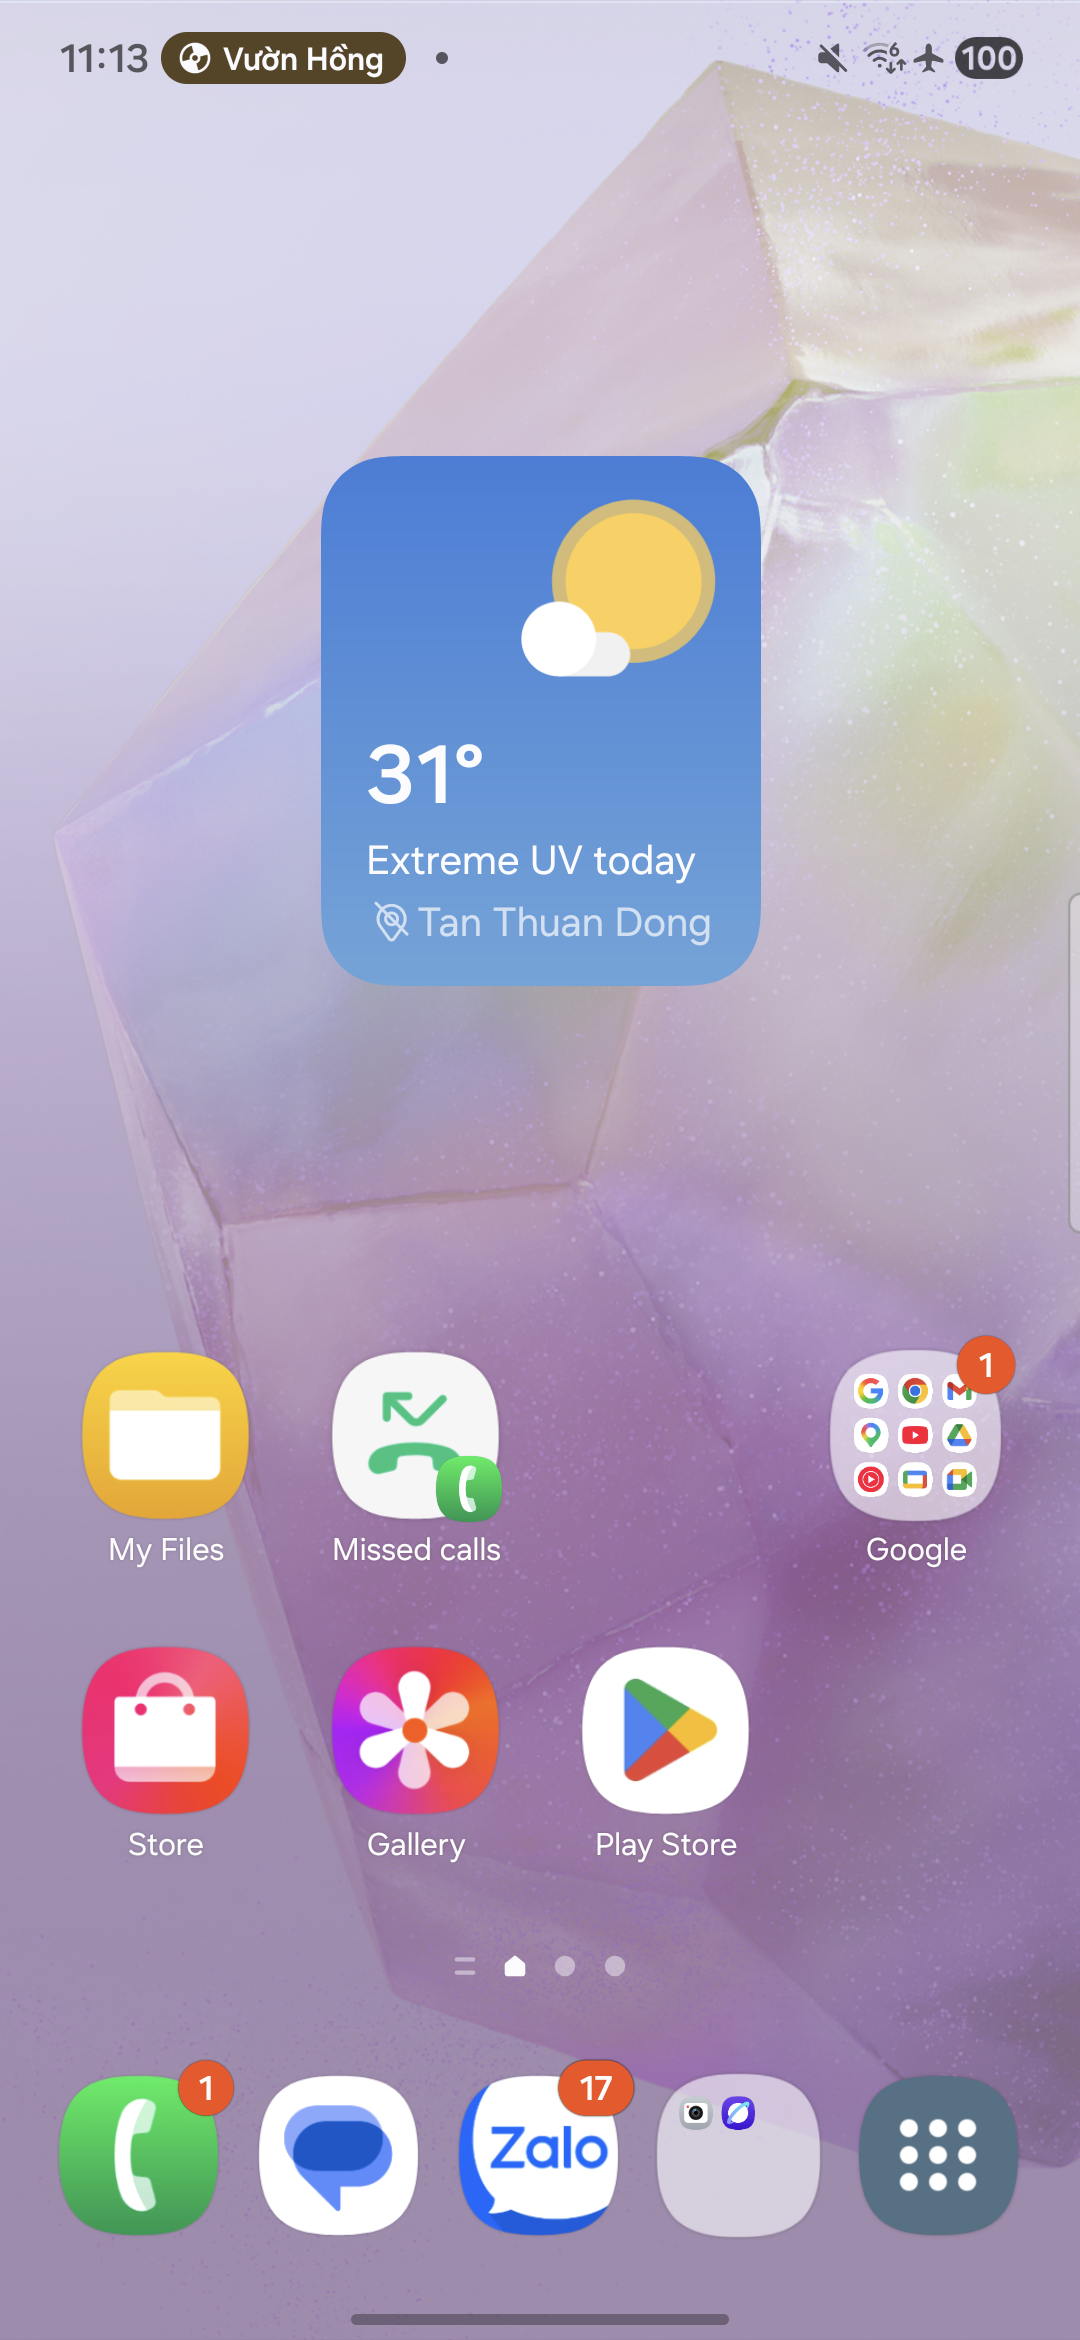
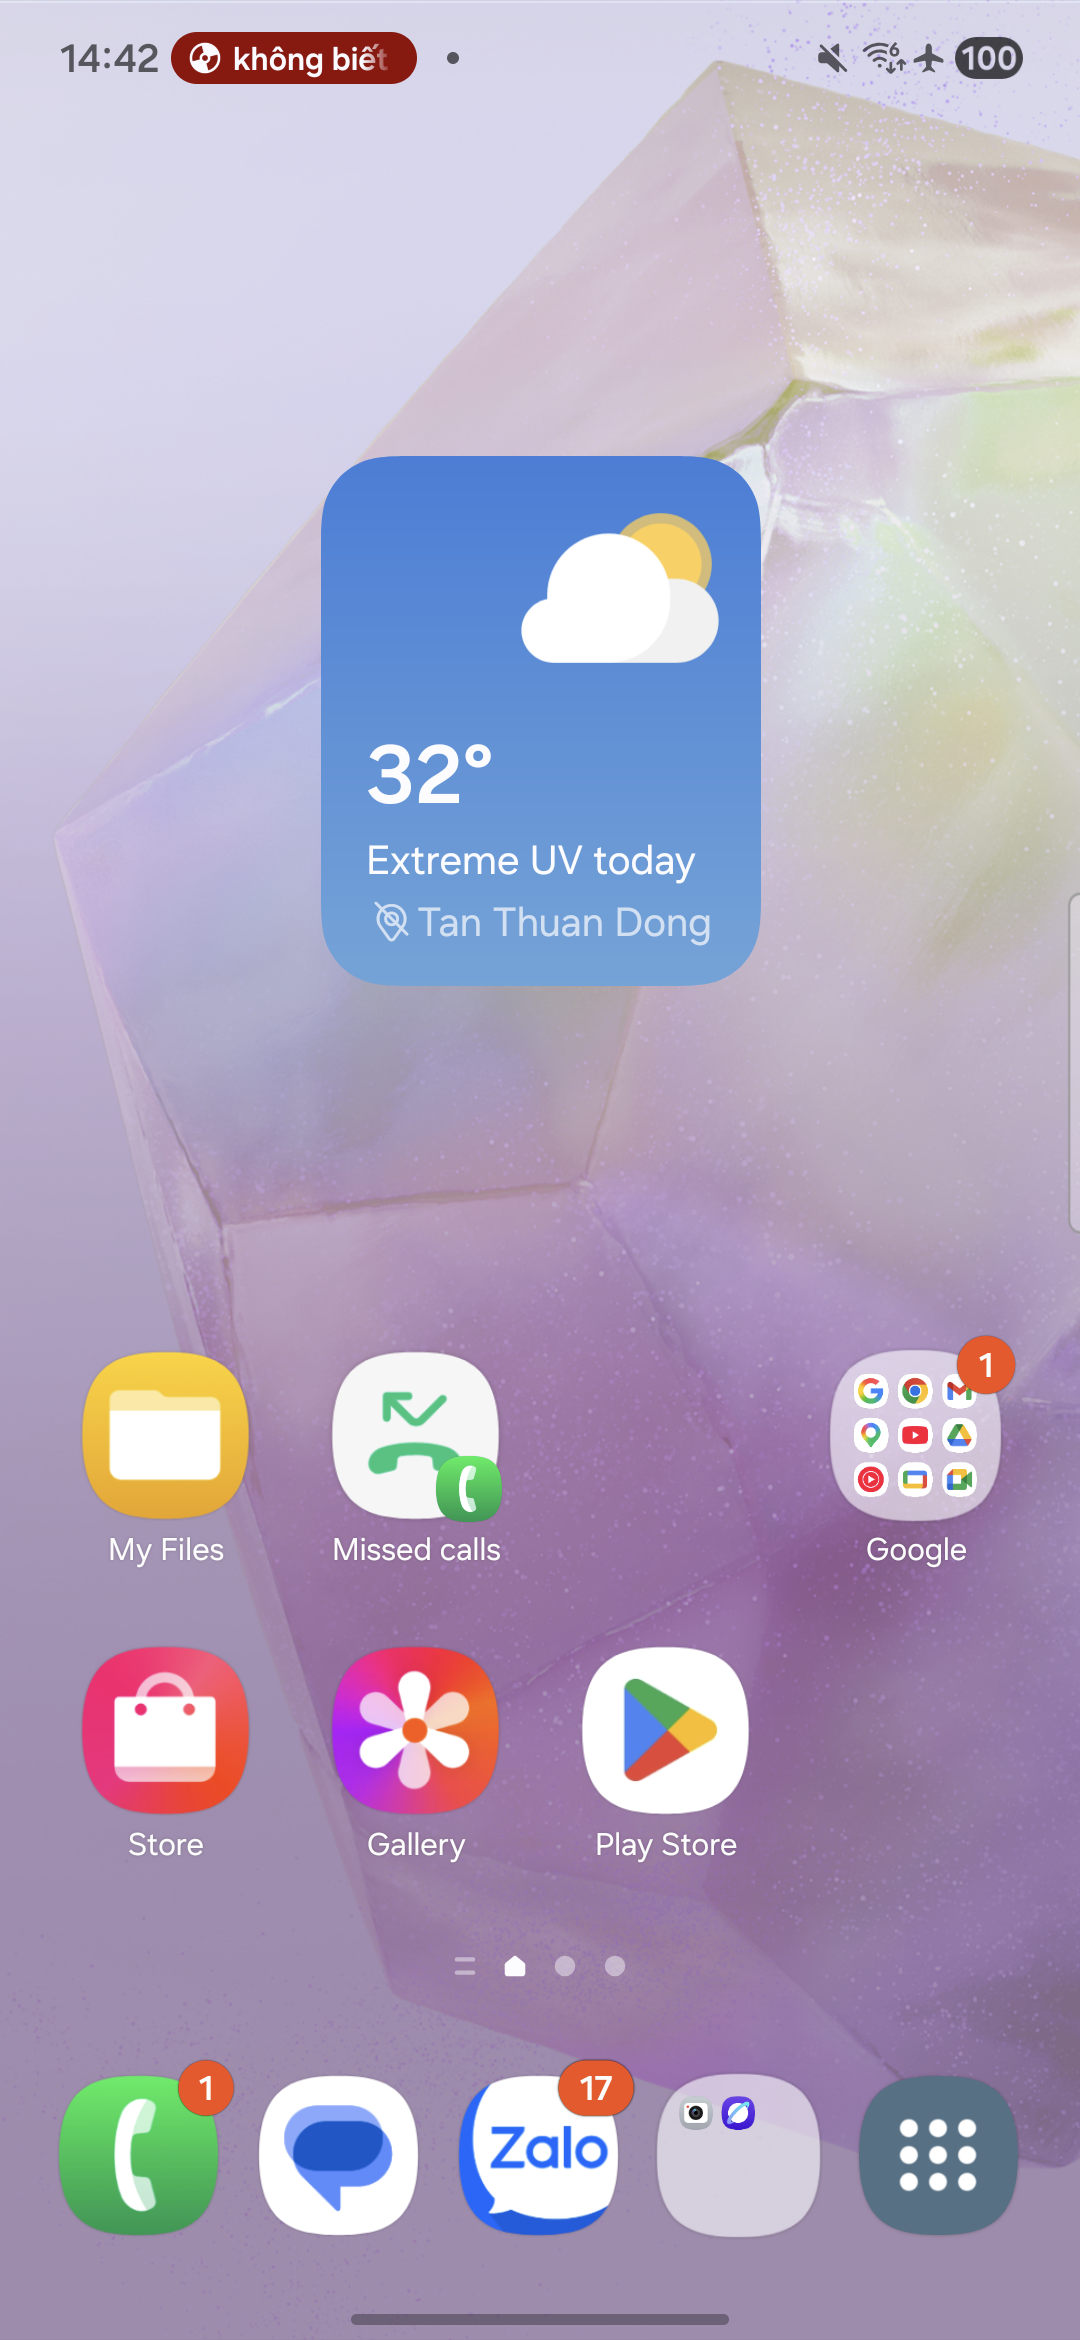
Add: test_home_quickplay_1st_item

Changed region(s): [[0.0611, 0.0, 0.3972, 0.0624], [0.4889, 0.1872, 0.6722, 0.312], [0.3667, 0.312, 0.4583, 0.3432]]

diff --git a/locators/android_locators.py b/locators/android_locators.py
@@ -27,9 +27,8 @@ class AndroidHomeLocators:
 
     # ── Bài hát đầu tiên trong section "Phát nhanh" ──────────────────────────
     QUICK_PLAY_FIRST_ITEM = (AppiumBy.XPATH,
-        "(//android.widget.TextView[@text='Phát nhanh']"
-        "/parent::*/parent::*/following-sibling::*"
-        "//android.widget.ImageView)[1]")
+        "(//android.widget.TextView[@resource-id='com.zing.mp3:id/text' and @text='Phát nhanh']"
+        "/../following-sibling::android.widget.RelativeLayout[@clickable='true'])[1]")
 
     # ── Mini player ───────────────────────────────────────────────────────────
     MINI_PLAYER         = (AppiumBy.ID, "com.zing.mp3:id/playbarContainer")
@@ -72,19 +71,20 @@ class AndroidHomeLocators:
         "(//android.widget.TextView[@resource-id='com.zing.mp3:id/tvTitle' and contains(@text,'Top 100')])[1]")
 
     # ── Màn hình Khám phá — Category Tabs ───────────────────────────────────
+    # //* tìm rvCategory (chỉ có 1 element với resource-id này), sau đó direct child /
     CATEGORY_TABS       = (AppiumBy.ID,   "com.zing.mp3:id/rvCategory")
     TAB_CHO_BAN         = (AppiumBy.XPATH,
         "//*[@resource-id='com.zing.mp3:id/rvCategory']"
-        "//android.widget.TextView[@resource-id='com.zing.mp3:id/tvTitle' and @text='Cho bạn']")
+        "/android.widget.TextView[@resource-id='com.zing.mp3:id/tvTitle' and @text='Cho bạn']")
     TAB_THU_GIAN        = (AppiumBy.XPATH,
         "//*[@resource-id='com.zing.mp3:id/rvCategory']"
-        "//android.widget.TextView[@resource-id='com.zing.mp3:id/tvTitle' and @text='Thư giãn']")
+        "/android.widget.TextView[@resource-id='com.zing.mp3:id/tvTitle' and @text='Thư giãn']")
     TAB_WORKOUT         = (AppiumBy.XPATH,
         "//*[@resource-id='com.zing.mp3:id/rvCategory']"
-        "//android.widget.TextView[@resource-id='com.zing.mp3:id/tvTitle' and @text='Workout']")
+        "/android.widget.TextView[@resource-id='com.zing.mp3:id/tvTitle' and @text='Workout']")
     TAB_TAP_TRUNG       = (AppiumBy.XPATH,
         "//*[@resource-id='com.zing.mp3:id/rvCategory']"
-        "//android.widget.TextView[@resource-id='com.zing.mp3:id/tvTitle' and @text='Tập trung']")
+        "/android.widget.TextView[@resource-id='com.zing.mp3:id/tvTitle' and @text='Tập trung']")
     NOTIFICATION_ICON   = (AppiumBy.ID,   "com.zing.mp3:id/ivIcon")
 
     # ── Màn hình Khám phá — Section "Dành riêng cho bạn" ────────────────────

diff --git a/tests/test_home_quickplay_1st_item.py b/tests/test_home_quickplay_1st_item.py
@@ -1,0 +1,47 @@
+import allure
+import time
+import pytest
+from pages.base_page import BasePage
+from locators.android_locators import (
+    AndroidHomeLocators,
+    AndroidPlayerLocators,
+    AndroidPlaylistLocators,
+)
+
+
+@allure.feature("Màn hình Khám phá")
+class TestHomeQuickPlay:
+
+    @pytest.mark.non_login
+    @pytest.mark.free
+    @pytest.mark.plus
+    @pytest.mark.premium
+    @pytest.mark.regression
+    @allure.story("Phát nhanh")
+    @allure.title("All: Tap item đầu tiên trong section Phát nhanh")
+    def test_quickplay_first_item(self, driver):
+        page = BasePage(driver)
+
+        with allure.step("Bước 1: Tap item đầu tiên trong section 'Phát nhanh'"):
+            page.wait_and_tap(AndroidHomeLocators.QUICK_PLAY_FIRST_ITEM)
+            time.sleep(2)
+
+        if page.is_visible(AndroidPlaylistLocators.BTN_SHUFFLE):
+            # Item là Playlist → màn hình Playlist details đang hiển thị
+            with allure.step("Bước 2: Item là Playlist – tap 'Phát ngẫu nhiên'"):
+                page.wait_and_tap(AndroidPlaylistLocators.BTN_SHUFFLE)
+                time.sleep(2)
+
+            with allure.step("Bước 3: Minimize Player"):
+                page.wait_and_tap(AndroidPlayerLocators.MINIMIZE_BTN)
+                time.sleep(1)
+
+            with allure.step("Bước 4: Quay về màn hình Khám phá"):
+                page.wait_and_tap(AndroidHomeLocators.BOTTOM_NAV_HOME)
+                time.sleep(1)
+
+        else:
+            # Item là bài hát → Player đang hiển thị trực tiếp
+            with allure.step("Bước 2: Item là bài hát – minimize Player"):
+                page.wait_and_tap(AndroidPlayerLocators.MINIMIZE_BTN)
+                time.sleep(1)

diff --git a/tests/test_home_switch_tab.py b/tests/test_home_switch_tab.py
@@ -19,32 +19,31 @@ class TestHomeSwitchTab:
 
         with allure.step("Bước 1: Chuyển sang tab Tập trung"):
             page.wait_and_tap(AndroidHomeLocators.TAB_TAP_TRUNG)
-            time.sleep(1)
+            time.sleep(0.3)
 
         with allure.step("Bước 2: Chuyển sang tab Thư giãn"):
             page.wait_and_tap(AndroidHomeLocators.TAB_THU_GIAN)
-            time.sleep(1)
+            time.sleep(0.3)
 
         with allure.step("Bước 3: Chuyển sang tab Workout"):
             page.wait_and_tap(AndroidHomeLocators.TAB_WORKOUT)
-            time.sleep(1)
+            time.sleep(0.3)
 
         with allure.step("Bước 4: Chuyển sang tab Cho bạn"):
             page.wait_and_tap(AndroidHomeLocators.TAB_CHO_BAN)
-            time.sleep(1)
+            time.sleep(0.3)
 
         with allure.step("Bước 5: Chuyển sang tab Thư giãn"):
             page.wait_and_tap(AndroidHomeLocators.TAB_THU_GIAN)
-            time.sleep(1)
+            time.sleep(0.3)
 
         with allure.step("Bước 6: Chuyển sang tab Cho bạn"):
             page.wait_and_tap(AndroidHomeLocators.TAB_CHO_BAN)
-            time.sleep(1)
+            time.sleep(0.3)
 
         with allure.step("Bước 7: Chuyển sang tab Tập trung"):
             page.wait_and_tap(AndroidHomeLocators.TAB_TAP_TRUNG)
-            time.sleep(1)
+            time.sleep(0.3)
 
         with allure.step("Bước 8: Chuyển sang tab Cho bạn"):
             page.wait_and_tap(AndroidHomeLocators.TAB_CHO_BAN)
-            time.sleep(1)

diff --git a/pages/base_page.py b/pages/base_page.py
@@ -59,19 +59,26 @@ class BasePage:
     def wait_for_visible(self, locator, timeout=10):
         """Chờ element hiển thị trong vòng timeout giây"""
         by, value = locator
+        self.driver.implicitly_wait(0)  # tắt implicit wait để tránh xung đột với explicit wait
         try:
             return WebDriverWait(self.driver, timeout).until(
                 EC.visibility_of_element_located((by, value))
             )
         except TimeoutException:
             raise TimeoutException(f"Element không hiển thị sau {timeout}s: {locator}")
+        finally:
+            self.driver.implicitly_wait(10)  # khôi phục
 
     def wait_for_clickable(self, locator, timeout=10):
         """Chờ element có thể click được"""
         by, value = locator
-        return WebDriverWait(self.driver, timeout).until(
-            EC.element_to_be_clickable((by, value))
-        )
+        self.driver.implicitly_wait(0)  # tắt implicit wait để tránh xung đột với explicit wait
+        try:
+            return WebDriverWait(self.driver, timeout).until(
+                EC.element_to_be_clickable((by, value))
+            )
+        finally:
+            self.driver.implicitly_wait(10)  # khôi phục
 
     def wait_and_tap(self, locator, timeout=10):
         """Chờ rồi nhấn"""

diff --git a/conftest.py b/conftest.py
@@ -7,6 +7,8 @@ from configs.android_config import ANDROID_CAPS
 from configs.ios_config import IOS_CAPS
 from appium.options.android import UiAutomator2Options
 from appium.options.ios import XCUITestOptions
+from selenium.webdriver.support.ui import WebDriverWait
+from selenium.webdriver.support import expected_conditions as EC
 from locators.android_locators import AndroidHomeLocators
 
 load_dotenv()
@@ -66,12 +68,12 @@ def _navigate_to_home(driver):
     """Bring app to foreground and navigate to Khám phá home tab"""
     try:
         driver.activate_app("com.zing.mp3")
-        time.sleep(2)
+        # Đợi bottom nav hiển thị (xử lý cả SplashActivity) thay vì sleep cố định
         by, value = AndroidHomeLocators.BOTTOM_NAV_HOME
-        driver.find_element(by, value).click()
-        time.sleep(1)
-    except Exception:
-        pass
+        WebDriverWait(driver, 15).until(EC.visibility_of_element_located((by, value))).click()
+        time.sleep(0.5)
+    except Exception as e:
+        print(f"\n[WARN] _navigate_to_home failed: {e}")
 
 
 @pytest.fixture(scope="function", autouse=True)

diff --git a/configs/android_config.py b/configs/android_config.py
@@ -11,6 +11,6 @@ ANDROID_CAPS = {
     "appActivity":         ".ui.activity.SplashActivity",
     "automationName":      "UiAutomator2",
     "noReset":             True,       # giữ dữ liệu giữa các lần chạy
-    "newCommandTimeout":   60,
+    "newCommandTimeout":   120,
     "autoGrantPermissions": True       # tự động cấp quyền app
 }
